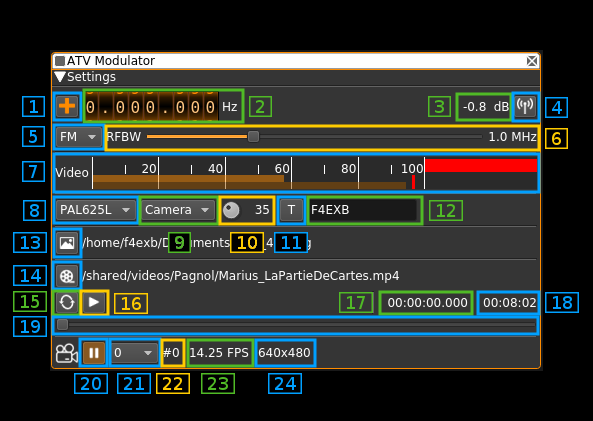
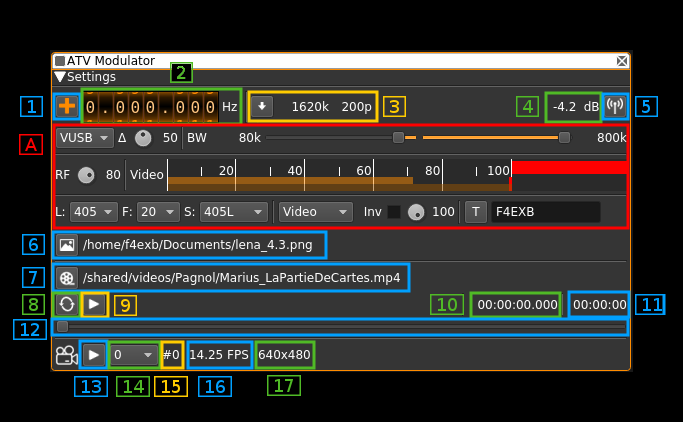
ATV Modulator: updated documentation

diff --git a/plugins/channeltx/modatv/readme.md b/plugins/channeltx/modatv/readme.md
@@ -1,75 +1,120 @@
-<h1>ATV modulator plugin</h1>
+##ATV modulator plugin
 
-<h2>Introduction</h2>
+<h1>Introduction</h1>
 
 This plugin can be used to generate an analog TV signal mostly used in amateur radio. It is limited to black and white images as only the luminance (256 levels) is supported. 
 
 There is no sound either. You coud imagine using any of the plugins supporting audio to create a mixed signal. This is not working well however for various reasons. It is better to use two physical transmitters and two physical receivers.
 
-In practice 4 MS/s is the lowest sample rate that produces a standard image quality. Lower sample rates down to 1 MS/s produce low quality images that may still be acceptable for experiments.
+In practice 4 MS/s with about 300 points per line is the lowest sample rate that produces a standard image quality. Lower sample rates and line definition produce low quality images that may still be acceptable for experiments.
 
-<h2>Interface</h2>
+<h1>Interface</h1>
 
 ![ATV Modulator plugin GUI](../../../doc/img/ATVMod_plugin.png)
 
-<h3>1: Frequency shift from center frequency of reception direction</h3>
+<h2>1: Frequency shift from center frequency of reception direction</h2>
 
 The "+/-" button on the left side of the dial toggles between positive and negative shift.
 
-<h3>2: Frequency shift from center frequency of reception value</h3>
+<h2>2: Frequency shift from center frequency of reception value</h2>
 
 Use the wheels to adjust the frequency shift in Hz from the center frequency of reception. Left click on a digit sets the cursor position at this digit. Right click on a digit sets all digits on the right to zero. This effectively floors value at the digit position.
 
-<h3>3: Channel power</h3>
+<h2>3: Sample rate data</h2>
+
+The left button can be used to force the rational decimator even when the source and channel samople rates agree. This allows to use the FIR filter of the decimator in any case.
+
+The middle figure is the sample rate in kS/s used in the channel which may differ of the source plugin output sample rate if the rational decimator is engaged. This sample rate is calculated as the multiple of a base rate the closest lower to the source plugin output sample rate.
+
+The right figure is the corresponding number of points and therefore also samples per full line including line synchronization pattern. 
+
+The base sample rate is calculated based on the line frquency as the closest multiple of 1 kHz that represents an integer number of points per line greater or equal to 100.
+
+Let's take an example with a 405 lines and 25 FPS video signal and a 2400 kS/s source output sample rate: 
+
+  - the line frequency is 405 &#215; 25 = 10125 Hz
+  - 100 points require a sample rate of at least 100 &#215; 10125 = 1012500 S/s to fit one point per sample. This is not a multiple of 1 kS/s so we look for the next number of points that will yield a multiple of 1 kS/s
+  - 104 points yield a sample rate of 104 &#215; 10125 = 1053000 S/s which is a multiple of 1 kS/s and is the closest to 1012500 S/s. So we take 1053 kS/s as the base rate
+  - the channel sample rate at the output of the rational decimator will be 1053 &#215; 2 = 2106 kS/s and will fit 104 &#215; 2 = 208 points per line which produces a fairly good image
+  
+The example taken in the screenshot is from a 405 lines &#215; 20 FPS video signal:
+
+  - line frequency is 8100 Hz
+  - 100 points fit exactly into a 810 kS/s sample rate
+  - the nearest sample rate to 2400 kS/s is 1620 kS/s for 200 points per line 
+
+<h2>4: Channel power</h2>
 
 Average total power in dB relative to a &#177;1.0 amplitude signal generated in the pass band.
 
-<h3>4: Channel mute</h3>
+<h2>5: Channel mute</h2>
 
 Use this button to toggle mute for this channel. The radio waves on the icon are toggled on (active) and off (muted) accordingly. Default is channel active.
 
-<h3>5: Modulation type</h3>
+<h2>A: Signal settings</h2>
+
+![ATV Modulator plugin GUI signal](../../../doc/img/ATVMod_pluginA.png)
+
+<h3>A.1: Modulation type</h2>
 
 The video signal can modulate the carrier in the following modes:
 
   - AM: Amplitude modulation. Modulation index is 90%.
-  - FM: Frequency modulation. Excursion is half the bandwidth available given the channel sample rate. e.g. for 4 MS/s sample rate this is &#177;1 MHz (2 MHz total) 
+  - FM: Frequency modulation. Excursion is a percentage of the bandwidth available given the channel sample rate. This percentage is controlled by button (2). e.g. at 50% for 4 MS/s sample rate this is &#177;1 MHz (2 MHz total) 
   - USB: SSB upper side band: video signal is transposed only in positive frequencies including DC component
   - LSB: SSB lower side band: video signal is transposed only in megative frequencies excluding DC component
-  - VUSB: SSB upper sideband with vestigial lower sideband. The cutoff frequency of the lower sideband is controlled by the left slider of (6)
-  - VLSB: SSB lower sideband with vestigial upper sideband. The cutoff frequency of the upper sideband is controlled by the left slider of (6)
+  - VUSB: SSB upper sideband with vestigial lower sideband. The cutoff frequency of the lower sideband is controlled by slider (3)
+  - VLSB: SSB lower sideband with vestigial upper sideband. The cutoff frequency of the upper sideband is controlled by slider (3)
   
-<h3>6: RF bandwidth</h3>
+<h3>A.2: FM deviation percentage of total bandwidth</h3>
 
-This control has now a couple of sliders that do not appear on the screenshot.
+Use this button to control FM deviation in FM modulation mode. This is a percentage of total available channel bandwidth. e.g for the sample rate of 1620 kS/s of the screenshot and a percentage of 40% this yields a full deviation of 1620 &#215; 0.4 = 648 kHz that is &#177;324 kHz
+  
+<h3>A.3: Opposite sideband FFT filter cutoff</h3>
 
-In all but SSB modulations the right slider is is the bandwidth in MHz of the channel filter when the interpolator is engaged. If the sink sample rate is an integer multiple of the base rate that depends on the standard then there is no interpolation else the channel rate is set to the closest integer multiple of the base rate below the sink sample rate. 
+This slider is effective only on SSB and vestigial modes (USB, LSB, VUSB, VLSB). This slider controls the cutoff frequency of the FFT filter in the opposite sideband to the main in band sideband. That is:
 
-The base rate depending on the standard is:
+  - for LSB and VLSB: this is the upper sideband
+  - for USB and VUSB: this is the lower sideband
+  
+The cutoff frequency in kHz is displayed on the left of the slider
+  
+<h3>A.4: In band filter cutoff</h3>
 
-  - PAL625L: 1 MS/s
-  - PAL525L: 1.008 MS/s
+This slider acts on both the FFT filter in SSB modes and the rational decimator FIR filter in other modes.
 
-The modulating video signal sample rate is the same as the channel sample rate hence for example with a channel sample rate of 4 MS/s a video sample will last 1/4 = 0.25 &#956;s. In PAL625L a complete horizontal line lasts 64 &#956;s hence it will be composed of 64 &#215; 4 = 256 samples while the useful image line that lasts about 52 &#956;s will be composed of 52 &#215; 4 = 204 samples or points. 
+  - AM, FM: this controls the cutoff frequency of the decimator FIR filter.
+  - USB, LSB, VUSB, VLSB: this controls the cutoff frequency of the FIR filter on the in band side that is:
+    - upper sideband for USB, VUSB
+    - lower sideband for LSB, VLSB
 
-When no interpolation and hence no soft RF filtering in the channel takes place then filtering relies on the hardware. The hardware filter bandwidth can be set in the sink plugin.
+The cutoff frequency in kHz is displayed on the right of the slider
 
-In USB and LSB modulations the right slider controls the sideband FFT filter cutoff. This filter includes DC to avoid the distorsion of the video signal that has a significant DC component.
+<h3>A.5: Modulated signal level before filtering stages</h3>
+  
+This button controls the scaling from the +1/-1 modulated signal level to the -32768/+32768 2 bytes samples. This is useful to control the saturation of the FFT or FIR filters. Looking at the output spectrum you can precisely control the limit above which distorsion appears.
 
-In VUSB and VLSB modulations in addition the left slider controls the opposite sideband FFT filter cutoff.
-
-<h3>7: Video signal level meter</h3>
+<h3>A.6: Video signal level meter</h3>
 
 This is the level meter fed with the video signal. Units are the percentage of the 0.0 to 1.0 modulating video signal.
 
-<h3>8: TV Standard</h3>
+<h3>A.7: Nuber of lines</h3>
 
-This is the analog TV standard in use. Use the checkbox to choose between:
+This controls the number of lines per full frame. Choice is between 625, 525 or 405 lines.
+
+<h3>A.8: Number of frames per second</h3>
+
+This controls the number of full frames per second. Choice is between 30, 25, 20 or 16 frames per second.
+
+<h3>A.9: TV Standard</h2>
+
+This controls the frame synchronization schem and number of black lines:
 
   - PAL625L: this is the PAL 625 lines standard with 25 FPS. Since only black and white (luminance) is supported this corresponds to any of the B,G,I or L PAL standards
   - PAL525L: this is the PAL 525 lines standard with 30 FPS. This corresponds to the PAL M standard.
+  - 405L: this loosely corresponds to the British 405 lines system and is similar to PAL for synchronization. This mode has only 7 black lines.
   
-<h3>9: Input source</h3>
+<h2>A.10: Input source</h2>
 
 This combo box lets you choose between various inputs for the video signal:
 
@@ -83,70 +128,66 @@ This combo box lets you choose between various inputs for the video signal:
   - Video: video file read from the file selected with button (14). If no image is selected an uniform image is sent with the luminance adjusted with button (10).  Buttons (15) and (16) control the play.
   - Camera: video signal from a webcam or supported video source connected to the system. If no source is selected an uniform image is sent with the luminance adjusted with button (10). Button (21) selects the camera source. Button (20) plays or stops the camera on a still image.
 
-<h3>9A: Video inversion toggle</h3>
-
-This checkbox is not on the screenshot and is on the right of (9) between (9) and (10).
+<h2>A.11: Video inversion toggle</h2>
 
 Use this checkbox to toggle video signal inversion before modulation. 
   
-<h3>10. Luminance level</h3> 
+<h2>A.12. Luminance level</h2> 
 
 This button lets you adjust the luminance level of the "blank" screens displays, the lighter squares on the chessboard and the overlay text.
 
-<h3>11. Show overlay text toggle</h3>
+<h2>A.13. Overlay text toggle</h2>
 
-This button toggles the display of an overlay text on a still image, or a video signal from a file or a camera. Note that for still images you will have to toggle off/on this button to take any change of text or text brightness into account.
+The button toggles the display of an overlay text on a still image, or a video signal from a file or a camera. Note that for still images you will have to toggle off/on this button to take any change of text or text brightness into account. The brightness level of the text is selected with the luminance adjust button (10). The number of characters is limited to 12.
 
-<h3>12. Overlay text</h3>
+The text area lers you type a text up to 12 characters.
 
-In this textbox you can type the text that will be displayed as overlay when button (11) is engaged. The brightness level of the text is selected with the luminance adjust button (10). The number of characters is limited to 12.
-
-<h3>13. Still picture file select</h3>
+<h2>6. Still picture file select</h2>
 
 Clicking on this button will open a file dialog to let you choose an image file for still image display. When the dialog is closed and the choice is validated the name of the file will appear on the space at the right of the button. 
 
-<h3>14. Video file select</h3>
+<h2>7. Video file select</h2>
 
 Clicking on this button will open a file dialog to let you choose a video file for video play. When the dialog is closed and the choice is validated the name of the file will appear on the space at the right of the button. 
 
-<h3>15. Play loop video</h3>
+<h2>8. Play loop video</h2>
 
 Use this button to toggle on/off playing the video file in a loop
 
-<h3>16. Play/Pause video</h3>
+<h2>9. Play/Pause video</h2>
 
 Use this button to toggle on/off the video file play. When play stops the current image is displayed as a still image. When video is stopped the button is dark and a play (&#9658;) icon is displayed on the button. When video runs the button is lit and a pause (&#9611;&#9611;) icon is displayed on the button. 
 
-<h3>17. Current video position</h3>
+<h2>10. Current video position</h2>
 
 This is the current video file play position in time units relative to the start
 
-<h3>18. Video file length</h3>
+<h2>11. Video file length</h2>
 
 This is the video file play length in time units
 
-<h3>19. Video file position slider</h3>
+<h2>12. Video file position slider</h2>
 
 This slider can be used to randomly set the currennt position in the file when file play is in pause state (button 16). When video plays the slider moves according to the current position.
 
-<h3>20. Play/Pause camera</h3>
+<h2>23. Play/Pause camera</h2>
 
 Use this button to toggle on/off the camera play. When play stops the current image is displayed as a still image. When camera is stopped the button is dark and a play (&#9658;) icon is displayed on the button. When camera runs the button is lit and a pause (&#9611;&#9611;) icon is displayed on the button. 
 
 On Linux systems when the play button is engaged for the first time the FPS of the camera is scanned which can take some time (100 frames are read). A message box appears while the operation is running.
 
-<h3>21. Camera select</h3>
+<h2>14. Camera select</h2>
 
 Use this combo to select the camera source when more than one is available. the number corresponds to the index of the camera during the camera scan at the startup of the plugin instance. A maximum of 4 cameras are scanned in whichever order presented by the system.  
 
-<h3>22. Camera device number</h3>
+<h2>15. Camera device number</h2>
 
 This is the device number used by OpenCV which on Linux systems correspond to the /dev/video device number. i.e. "#0" for /dev/video0.
 
-<h3>23. Camera FPS</h3>
+<h2>16. Camera FPS</h2>
 
 This is the camera FPS. On Windows there is no dynamic FPS check and a fixed 5 FPS is set for each camera. On Linux 90% of the calculated FPS is divided by the number of scanned cameras to give the final FPS. This is an attempt to avoid congestion when multiple cameras are available however this was only tested with two cameras.
 
-<h3>24. Camera image size</h3>
+<h2>17. Camera image size</h2>
 
 This is the width x height camera iamge size in pixels
